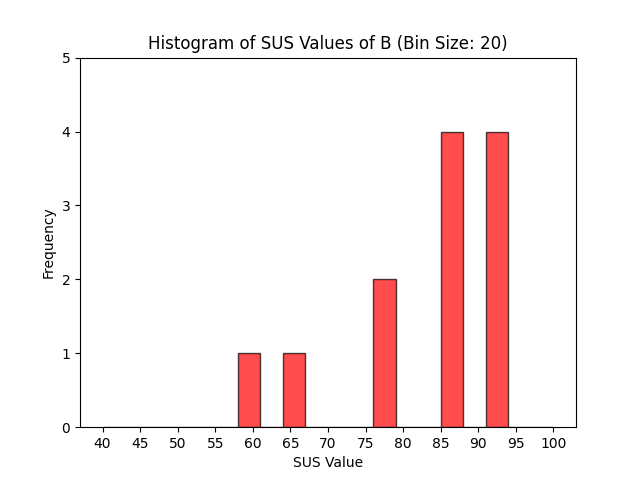
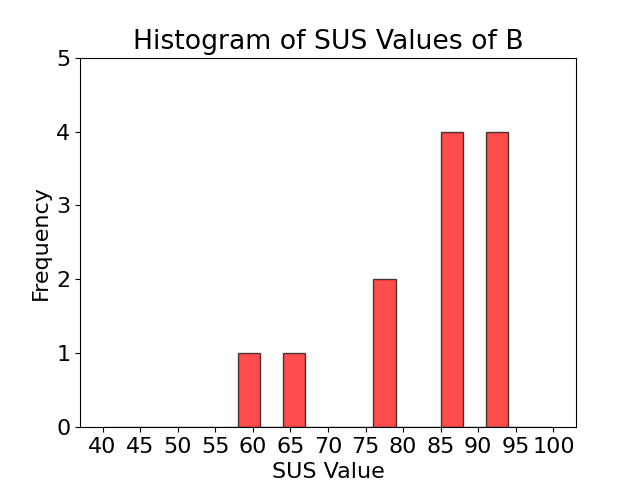
plots

diff --git a/code/study_analysis/data_analysis.py b/code/study_analysis/data_analysis.py
@@ -6,6 +6,7 @@ from scipy.stats import shapiro
 from scipy.stats import levene
 from scipy.stats import wilcoxon
 from scipy.stats import ttest_rel
+from scipy.stats import pearsonr
 
 path_to_analysis = 'C:/Users/nisha/OneDrive/Desktop/ETH/human_computer_interaction/hci-project-hci2023-group-16/code/study_analysis'
 
@@ -14,6 +15,9 @@ file_path = path_to_analysis + '/user_study_2_data.csv'
 df = pd.read_csv(file_path)
 
 
+
+# Set global font size
+plt.rcParams['font.size'] = 16
 
 ##### Demographics
 
@@ -31,8 +35,8 @@ med_age = df['age'].median()
 familiarity_counts = df['tinder_frequency'].value_counts().sort_index()
 axs[0].bar(familiarity_counts.index, familiarity_counts, color='grey')
 axs[0].set_xticks(np.arange(1, 6, 1))
-axs[0].set_xlabel('Familiarity with Swiping Apps like Tinder \n(1: low, 5: high)')
-axs[0].set_ylabel('Count')
+axs[0].set_xlabel('Familiarity with Swiping \nApps like Tinder \n(1: low, 5: high)', fontsize=16)
+axs[0].set_ylabel('Count', fontsize=16)
 
 avg_tinder_familiarity = df['tinder_frequency'].mean()
 
@@ -42,8 +46,8 @@ frequency_counts = df['group_chat_frequency'].value_counts().sort_index()
 axs[1].bar(frequency_counts.index, frequency_counts, color='grey')
 axs[1].set_xticks(np.arange(1, 6, 1))
 axs[1].set_yticks(np.arange(0, 8, 1))
-axs[1].set_xlabel('Frequency of Planning Lunches via Group Chats\n and in Person (1: low, 5: high)')
-axs[1].set_ylabel('Count')
+axs[1].set_xlabel('Frequency of Planning Lunches \nvia Group Chats and in Person \n(1: low, 5: high)', fontsize=16)
+axs[1].set_ylabel('Count', fontsize=16)
 
 avg_planning_frequency = df['group_chat_frequency'].mean()
 
@@ -52,8 +56,8 @@ avg_planning_frequency = df['group_chat_frequency'].mean()
 si_frequency_counts = df['self_initiated_lunch'].value_counts().sort_index()
 axs[2].bar(si_frequency_counts.index, si_frequency_counts, color='grey')
 axs[2].set_xticks(np.arange(1,6,1))
-axs[2].set_xlabel('Frequency of Self-Initiated Lunches \n(1: low, 5: high)')
-axs[2].set_ylabel('Count')
+axs[2].set_xlabel('Frequency of Self-Initiated \nLunches (1: low, 5: high)', fontsize=16)
+axs[2].set_ylabel('Count', fontsize=16)
 
 avg_self_init_frequency = df['self_initiated_lunch'].mean()
 
@@ -72,7 +76,7 @@ plt.xticks(np.arange(40,101,5))
 plt.yticks(np.arange(0, 6, 1)) 
 plt.xlabel('SUS Value')
 plt.ylabel('Frequency')
-plt.title(f'Histogram of SUS Values of A (Bin Size: {number_of_bins})')
+plt.title(f'Histogram of SUS Values of A')
 
 plt.savefig(path_to_analysis + '/histogram_sus_values_A')
 plt.close()
@@ -83,7 +87,7 @@ plt.xticks(np.arange(40,101,5))
 plt.yticks(np.arange(0, 6, 1)) 
 plt.xlabel('SUS Value')
 plt.ylabel('Frequency')
-plt.title(f'Histogram of SUS Values of B (Bin Size: {number_of_bins})')
+plt.title(f'Histogram of SUS Values of B')
 
 plt.savefig(path_to_analysis + '/histogram_sus_values_B')
 plt.close()
@@ -134,7 +138,7 @@ plt.xticks(np.arange(0,61,5))
 plt.yticks(np.arange(0, 5, 1)) 
 plt.xlabel('Time Needed to Select a Group')
 plt.ylabel('Frequency')
-plt.title(f'Histogram of Time Needed to Select a Group in A Test (Bin Size: {number_of_bins})')
+plt.title(f'Histogram of Time Needed to Select a Group in A Test')
 
 plt.savefig(path_to_analysis + '/histogram_time_A')
 plt.close()
@@ -145,7 +149,7 @@ plt.xticks(np.arange(0,61,5))
 plt.yticks(np.arange(0, 5, 1)) 
 plt.xlabel('Time Needed to Select a Group')
 plt.ylabel('Frequency')
-plt.title(f'Histogram of Time Needed to Select a Group in B Test (Bin Size: {number_of_bins})')
+plt.title(f'Histogram of Time Needed to Select a Group in B Test')
 
 plt.savefig(path_to_analysis + '/histogram_time_B')
 plt.close()
@@ -196,7 +200,7 @@ plt.xticks(np.arange(0,35,5))
 plt.yticks(np.arange(0, 10, 1)) 
 plt.xlabel('Gesture Count')
 plt.ylabel('Frequency')
-plt.title(f'Histogram of Gesture Count in A Test (Bin Size: {number_of_bins})')
+plt.title(f'Histogram of Gesture Count in A Test')
 
 plt.savefig(path_to_analysis + '/histogram_gesture_count_A')
 plt.close()
@@ -207,7 +211,7 @@ plt.xticks(np.arange(0,35,5))
 plt.yticks(np.arange(0, 10, 1)) 
 plt.xlabel('Gesture Count')
 plt.ylabel('Frequency')
-plt.title(f'Histogram of Gesture Count in B Test (Bin Size: {number_of_bins})')
+plt.title(f'Histogram of Gesture Count in B Test')
 
 plt.savefig(path_to_analysis + '/histogram_gesture_count_B')
 plt.close()
@@ -251,19 +255,28 @@ stddev_gesture_counts = [std_gesture_count_value_a, std_gesture_count_value_b]
 
 
 fig2, ax2 = plt.subplots(1, 3, figsize=(12, 10))
+
 plt.subplots_adjust(wspace=0.6, hspace=0.4)
-ax2[0].bar(['Mean and Std Dev \n(A)', 'Mean and Std Dev \n(B)'], mean_sus, yerr=stddev_sus, color=['blue', 'red'], width=0.4)
-ax2[0].set_ylabel('SUS value')
+ax2[0].bar(['A', 'B'], mean_sus, yerr=stddev_sus, color=['blue', 'red'], width=0.4)
+ax2[0].set_ylabel('SUS value',fontsize=18)
 
-ax2[1].bar(['Mean and Std Dev \n(A)', 'Mean and Std Dev \n(B)'], mean_times, yerr=stddev_time, color=['blue', 'red'], width=0.4)
-ax2[1].set_ylabel('Time in seconds')
+ax2[1].bar(['A', 'B'], mean_times, yerr=stddev_time, color=['blue', 'red'], width=0.4)
+ax2[1].set_ylabel('Time in seconds',fontsize=18)
 
-ax2[2].bar(['Mean and Std Dev \n(A)', 'Mean and Std Dev \n(B)'], mean_gesture_counts, yerr=stddev_gesture_counts, color=['blue', 'red'], width=0.4)
-ax2[2].set_ylabel('Gesture Count')
+ax2[2].bar(['A', 'B'], mean_gesture_counts, yerr=stddev_gesture_counts, color=['blue', 'red'], width=0.4)
+ax2[2].set_ylabel('Gesture Count',fontsize=18)
+
 plt.savefig(path_to_analysis + '/all_means_plots.png')
 plt.close()
 
 
+
+
+### Calculate corrleation between tinder familiarity and sus_b
+
+correlation_coefficient, p_value = pearsonr(df['tinder_frequency'], df['sus_b'])
+print(correlation_coefficient)
+print(p_value)
 
 
 
